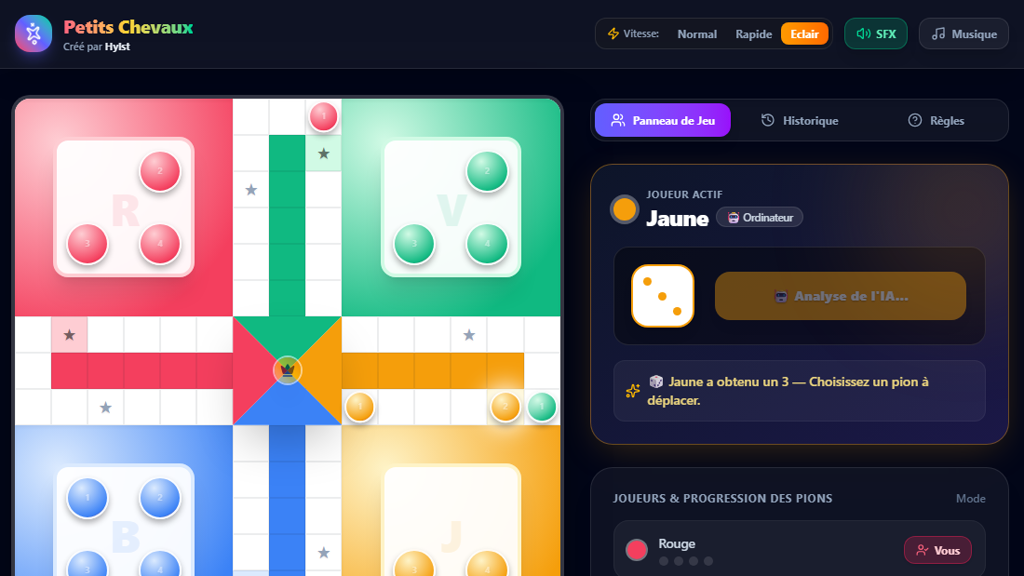
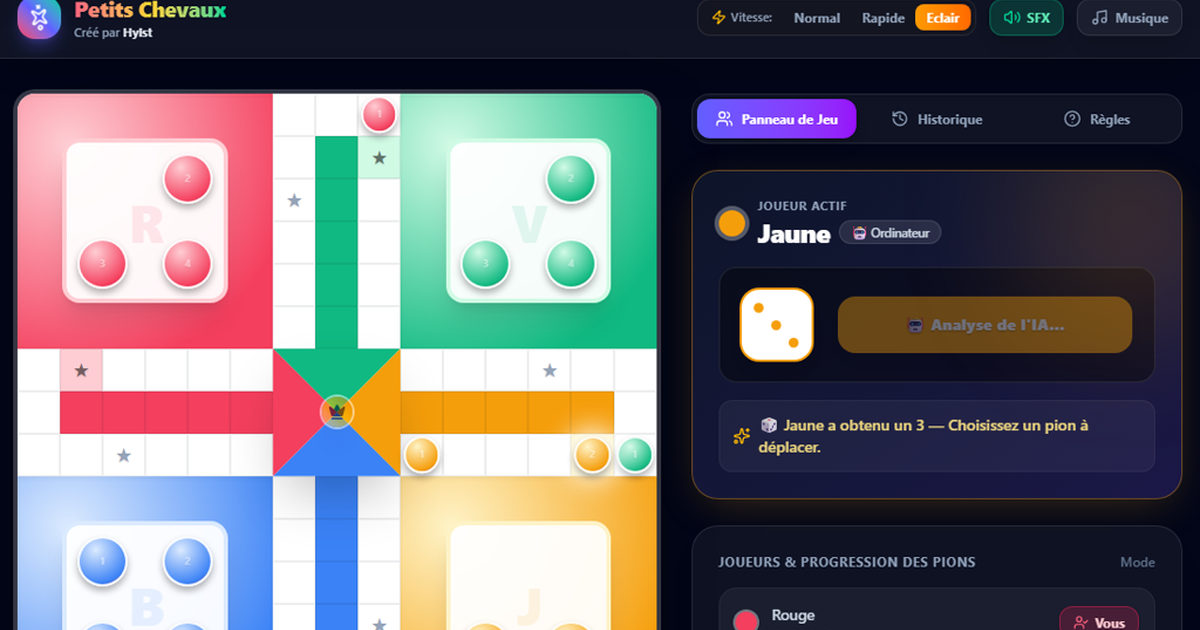
Open Graph : image 1200 x 630 et metadonnees completes

diff --git a/index.html b/index.html
@@ -9,13 +9,17 @@
     <meta property="og:type" content="website" />
     <meta property="og:title" content="Petits Chevaux : ça piaffe dans l'écurie" />
     <meta property="og:description" content="Le jeu de societe classique : sortez vos pions sur un 6, avancez, capturez les adversaires, ramenez vos 4 chevaux au centre." />
-    <meta property="og:image" content="https://games.hylst.fr/petitschevaux/og-image.png" />
+    <meta property="og:image" content="https://games.hylst.fr/petitschevaux/og-image.png?v=2" />
+    <meta property="og:image:type" content="image/png" />
+    <meta property="og:image:width" content="1200" />
+    <meta property="og:image:height" content="630" />
+    <meta property="og:image:alt" content="Petits Chevaux" />
     <meta property="og:url" content="https://games.hylst.fr/petitschevaux/" />
     <meta property="og:site_name" content="Hylst.Games" />
     <meta name="twitter:card" content="summary_large_image" />
     <meta name="twitter:title" content="Petits Chevaux : ça piaffe dans l'écurie" />
     <meta name="twitter:description" content="Le jeu de societe classique : sortez vos pions sur un 6, avancez, capturez les adversaires, ramenez vos 4 chevaux au centre." />
-    <meta name="twitter:image" content="https://games.hylst.fr/petitschevaux/og-image.png" />
+    <meta name="twitter:image" content="https://games.hylst.fr/petitschevaux/og-image.png?v=2" />
     <meta name="robots" content="index, follow" />
     <link rel="canonical" href="https://games.hylst.fr/petitschevaux/" />
     <link rel="icon" type="image/png" href="favicon.png" />
